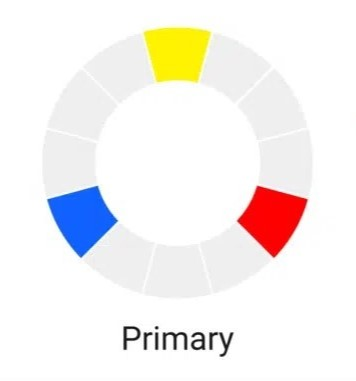
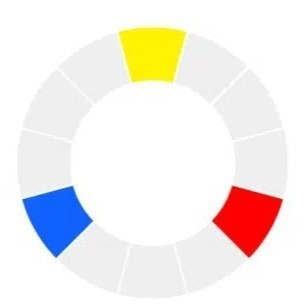
center div of primary, secondary, primary images

diff --git a/landing-page.html b/landing-page.html
@@ -35,9 +35,11 @@
 
   <div class="information">
     <p>There are three definitions of Color Theory</p>
-    <img src="images/primary.jpg">
-    <img src="images/secondary.jpg">
-    <img src="images/tertiary.jpg"> 
+    <div class="information-images">
+      <img src="images/primary.jpg">
+      <img src="images/secondary.jpg">
+      <img src="images/tertiary.jpg">
+    </div> 
   </div>
   <div class="quote">
     <p>

diff --git a/styles.css b/styles.css
@@ -92,3 +92,20 @@
   font-size: 20px;
   cursor: pointer;
 }
+
+.information > p {
+  text-align: center;
+  padding: 80px 0;
+  font-weight: bolder;
+  font-size: 30px;
+}
+
+.information-images {
+  margin: auto;
+  width: 60%;
+}
+
+.information-images > img {
+  border: #3882f6 solid 6px;
+  border-radius: 12px;
+}
